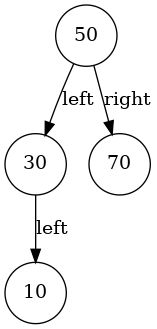
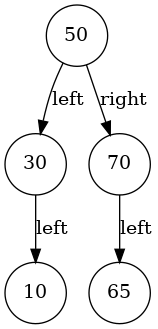
[bst] refactor (delete node array)

diff --git a/tree/bst/bst_funcs.cpp b/tree/bst/bst_funcs.cpp
@@ -1,7 +1,7 @@
 #include "bst_funcs.h"
 
 static void generate_bst_dot_log(bst_t *bst) {
-    generate_bst_dot_log_image(bst, bst->change_number);
+    generate_bst_dot_log_image(bst->root_node, bst->change_number);
     bst->change_number++;
 }
 
@@ -9,60 +9,42 @@ void bst_ctor(bst_t *bst, const char *name, int root_data) {
     assert(bst != nullptr);
     assert(name != nullptr);
 
-    bst->nodes = (node_t *)calloc(bst_max_size, sizeof(node_t));
-    bst->size = 0;
-    bst->nodes[0].data = root_data;
-    bst->nodes[0].left = nullptr;
-    bst->nodes[0].right = nullptr;
+    bst->root_node = (node_t *)calloc(1, sizeof(node_t));
+    bst->root_node->data = root_data;
+    bst->root_node->left = nullptr;
+    bst->root_node->right = nullptr;
     bst->name = name;
     bst->change_number = 0;
 }
 
-void bst_postorder_dump(bst_t *bst, node_t *root_node_of_bst) {
-    fprintf(stderr, "(");
-    fprintf(stderr, "%d", root_node_of_bst->data);
-    if (root_node_of_bst->left) bst_postorder_dump(bst, root_node_of_bst->left);
-    if (root_node_of_bst->right) bst_postorder_dump(bst, root_node_of_bst->right);
-    fprintf(stderr, ")");
+node_t *create_node(int data) {
+    node_t *new_node = (node_t *)calloc(1, sizeof(node_t));
+
+    new_node->data = data;
+    new_node->left = nullptr;
+    new_node->right = nullptr;
+    return new_node;
 }
 
-static void create_node_in_bst(bst_t *bst, int data) {
+int insert_value_in_bst(bst_t *bst, node_t *current_root_node_of_bst, int value) { // всё дерево передаю только для логов (в релизе можно без)
     assert(bst != nullptr);
+    assert(current_root_node_of_bst != nullptr);
 
-    bst->nodes[bst->size].data = data;
-    bst->nodes[bst->size].left = nullptr;
-    bst->nodes[bst->size].right = nullptr;
-}
-
-int insert_value_in_bst(bst_t *bst, node_t *root_node_of_bst, int value) {
-    assert(bst != nullptr);
-    assert(root_node_of_bst != nullptr);
-
-    if (root_node_of_bst->data > value) {
-        if (root_node_of_bst->left != nullptr) insert_value_in_bst(bst, root_node_of_bst->left, value);
+    if (current_root_node_of_bst->data > value) {
+        if (current_root_node_of_bst->left != nullptr) insert_value_in_bst(bst, current_root_node_of_bst->left, value);
         else {
-            bst->size++;
-            if (bst->size >= bst_max_size) {
-                fprintf(stderr, "too much nodes, cant insert value\n");
-                return -1;
-            }
-            create_node_in_bst(bst, value);
-            root_node_of_bst->left = &bst->nodes[bst->size];
+            node_t *new_node = create_node(value);
+            current_root_node_of_bst->left = new_node;
             generate_bst_dot_log(bst);
             return 0;
         }
     }
 
-    else if (root_node_of_bst->data < value) {
-        if (root_node_of_bst->right != nullptr) insert_value_in_bst(bst, root_node_of_bst->right, value);
+    else if (current_root_node_of_bst->data < value) {
+        if (current_root_node_of_bst->right != nullptr) insert_value_in_bst(bst, current_root_node_of_bst->right, value);
         else {
-            bst->size++;
-            if (bst->size >= bst_max_size) {
-                fprintf(stderr, "too much nodes, cant insert value\n");
-                return -1;
-            }
-            create_node_in_bst(bst, value);
-            root_node_of_bst->right = &bst->nodes[bst->size];
+            node_t *new_node = create_node(value);
+            current_root_node_of_bst->right = new_node;
             generate_bst_dot_log(bst);
             return 0;
         }

diff --git a/tree/bst/bst_visual.cpp b/tree/bst/bst_visual.cpp
@@ -19,7 +19,7 @@ void generate_dot(node_t *root, FILE *file) {
     generate_dot(root->right, file);
 }
 
-void generate_bst_dot_log_file(bst_t *bst, const char *filename) {
+void generate_bst_dot_log_file(node_t *root, const char *filename) {
     FILE *file = fopen(filename, "w");
     if (!file) {
         fprintf(stderr, "Не удалось открыть файл для записи: %s\n", filename);
@@ -31,8 +31,8 @@ void generate_bst_dot_log_file(bst_t *bst, const char *filename) {
     fprintf(file, "    node [shape=circle];\n");
 
     // Генерация DOT-строк для каждого узла
-    if (&bst->nodes[0] != NULL) {
-        generate_dot(&bst->nodes[0], file);
+    if (root != NULL) {
+        generate_dot(root, file);
     }
 
     // Закрытие графа
@@ -41,7 +41,7 @@ void generate_bst_dot_log_file(bst_t *bst, const char *filename) {
     fclose(file);
 }
 
-void generate_bst_dot_log_image(bst_t *bst, int change_number) {
+void generate_bst_dot_log_image(node_t *root, int change_number) {
     char dot_filename[256];
     char img_filename[256];
     const char *dir = "bst_visual_log"; // Директория для сохранения
@@ -54,7 +54,7 @@ void generate_bst_dot_log_image(bst_t *bst, int change_number) {
     system("mkdir -p bst_visual_log");
 
     // Генерация DOT-файла
-    generate_bst_dot_log_file(bst, dot_filename);
+    generate_bst_dot_log_file(root, dot_filename);
 
     // Генерация изображения с помощью Graphviz
     char command[512];

diff --git a/tree/bst/bst_main.cpp b/tree/bst/bst_main.cpp
@@ -4,11 +4,11 @@ int main() {
     bst_t bst_vasya = {};
     bst_ctor(&bst_vasya, "bst_vasya", 50);
 
-    insert_value_in_bst(&bst_vasya, &bst_vasya.nodes[0], 30);
-    insert_value_in_bst(&bst_vasya, &bst_vasya.nodes[0], 70);
-    insert_value_in_bst(&bst_vasya, &bst_vasya.nodes[0], 10);
-    insert_value_in_bst(&bst_vasya, &bst_vasya.nodes[0], 65);
-    insert_value_in_bst(&bst_vasya, &bst_vasya.nodes[0], 80);
+    insert_value_in_bst(&bst_vasya, bst_vasya.root_node, 30);
+    insert_value_in_bst(&bst_vasya, bst_vasya.root_node, 70);
+    insert_value_in_bst(&bst_vasya, bst_vasya.root_node, 10);
+    insert_value_in_bst(&bst_vasya, bst_vasya.root_node, 65);
+    insert_value_in_bst(&bst_vasya, bst_vasya.root_node, 80);
 
     return 0;
 }

diff --git a/tree/bst/bst_structs.h b/tree/bst/bst_structs.h
@@ -5,8 +5,6 @@
 #include <stdlib.h>
 #include <assert.h>
 
-const size_t bst_max_size = 10;
-
 typedef struct node_t {
     int data;
     struct node_t *left;
@@ -14,8 +12,7 @@ typedef struct node_t {
 } node_t;
 
 typedef struct {
-    node_t *nodes;
-    size_t size;
+    node_t *root_node;
     //const char *logname;
     const char *name;
     int change_number;

diff --git a/tree/bst/bst_funcs.h b/tree/bst/bst_funcs.h
@@ -8,9 +8,7 @@ static void generate_bst_dot_log(bst_t *bst);
 
 void bst_ctor(bst_t *bst, const char *name, int root_data);
 
-void bst_postorder_dump(bst_t *bst, node_t *root_node_of_bst);
-
-static void create_node_in_bst(bst_t *bst, int data);
+node_t *create_node(int data);
 
 int insert_value_in_bst(bst_t *bst, node_t *root_node_of_bst, int value);
 

diff --git a/tree/bst/bst_visual.h b/tree/bst/bst_visual.h
@@ -5,8 +5,8 @@
 
 void generate_dot(node_t *root, FILE *file);
 
-void generate_bst_dot_log_file(bst_t *bst, const char *filename);
+void generate_bst_dot_log_file(node_t *root, const char *filename);
 
-void generate_bst_dot_log_image(bst_t *bst, int change_number);
+void generate_bst_dot_log_image(node_t *root, int change_number);
 
 #endif
